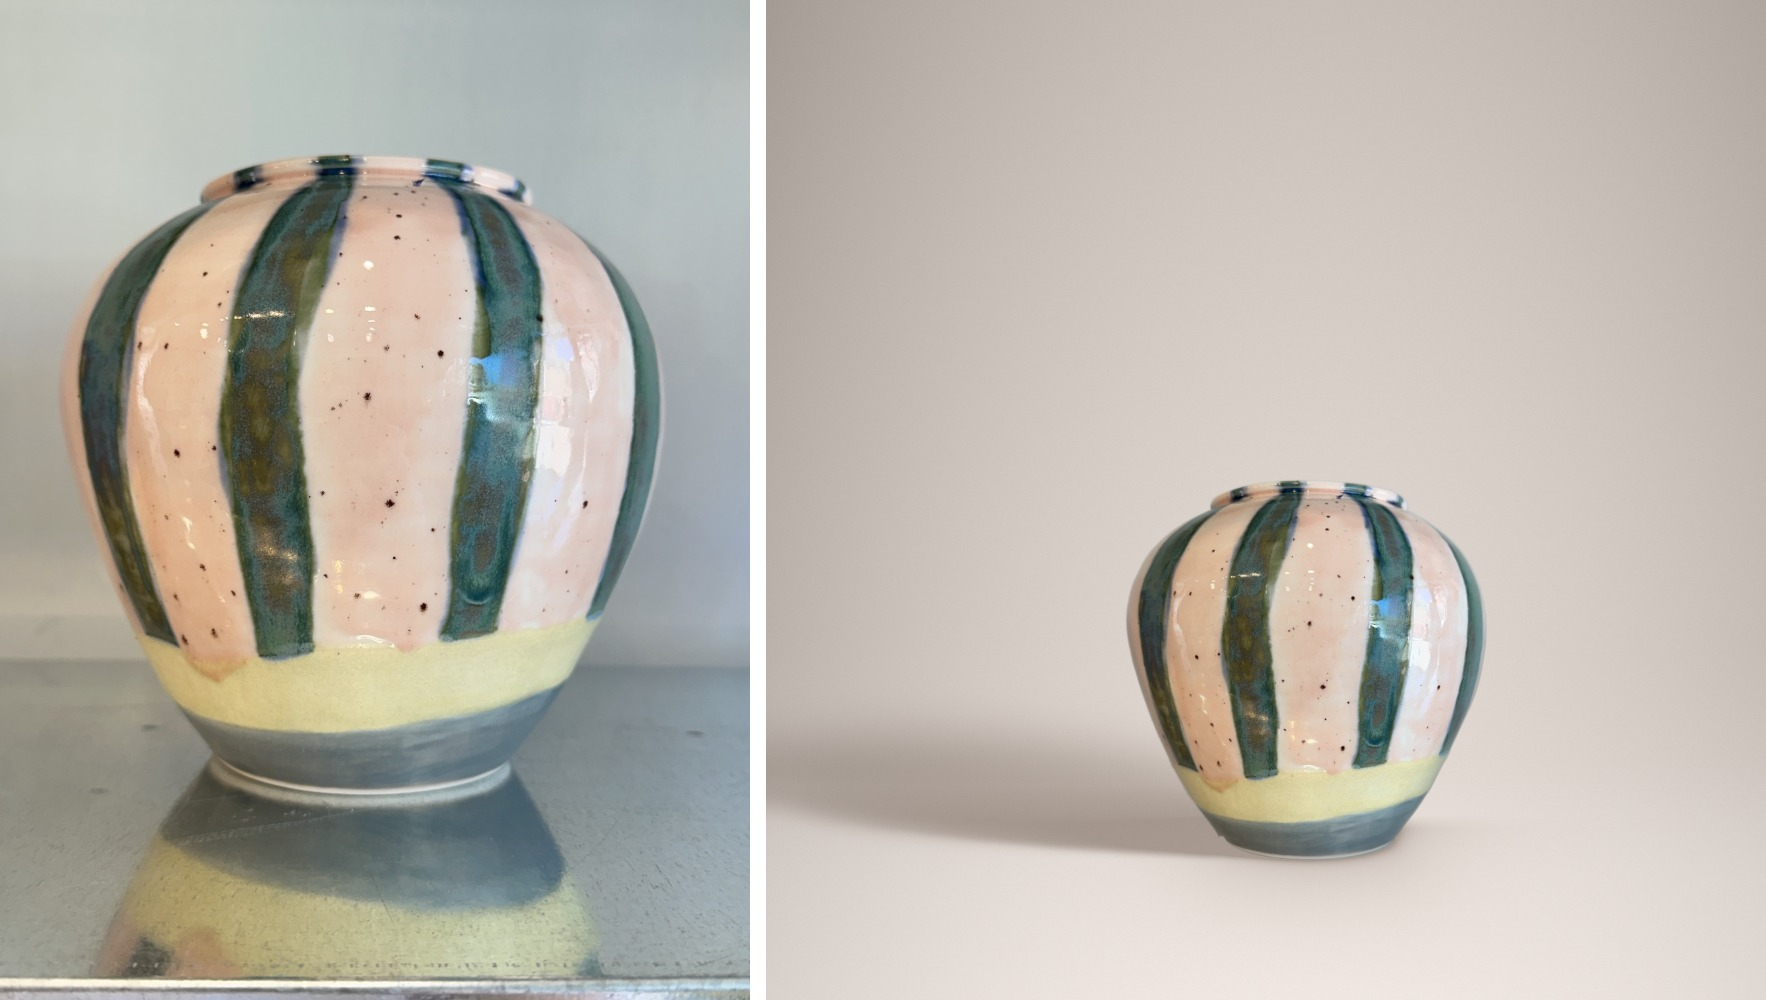
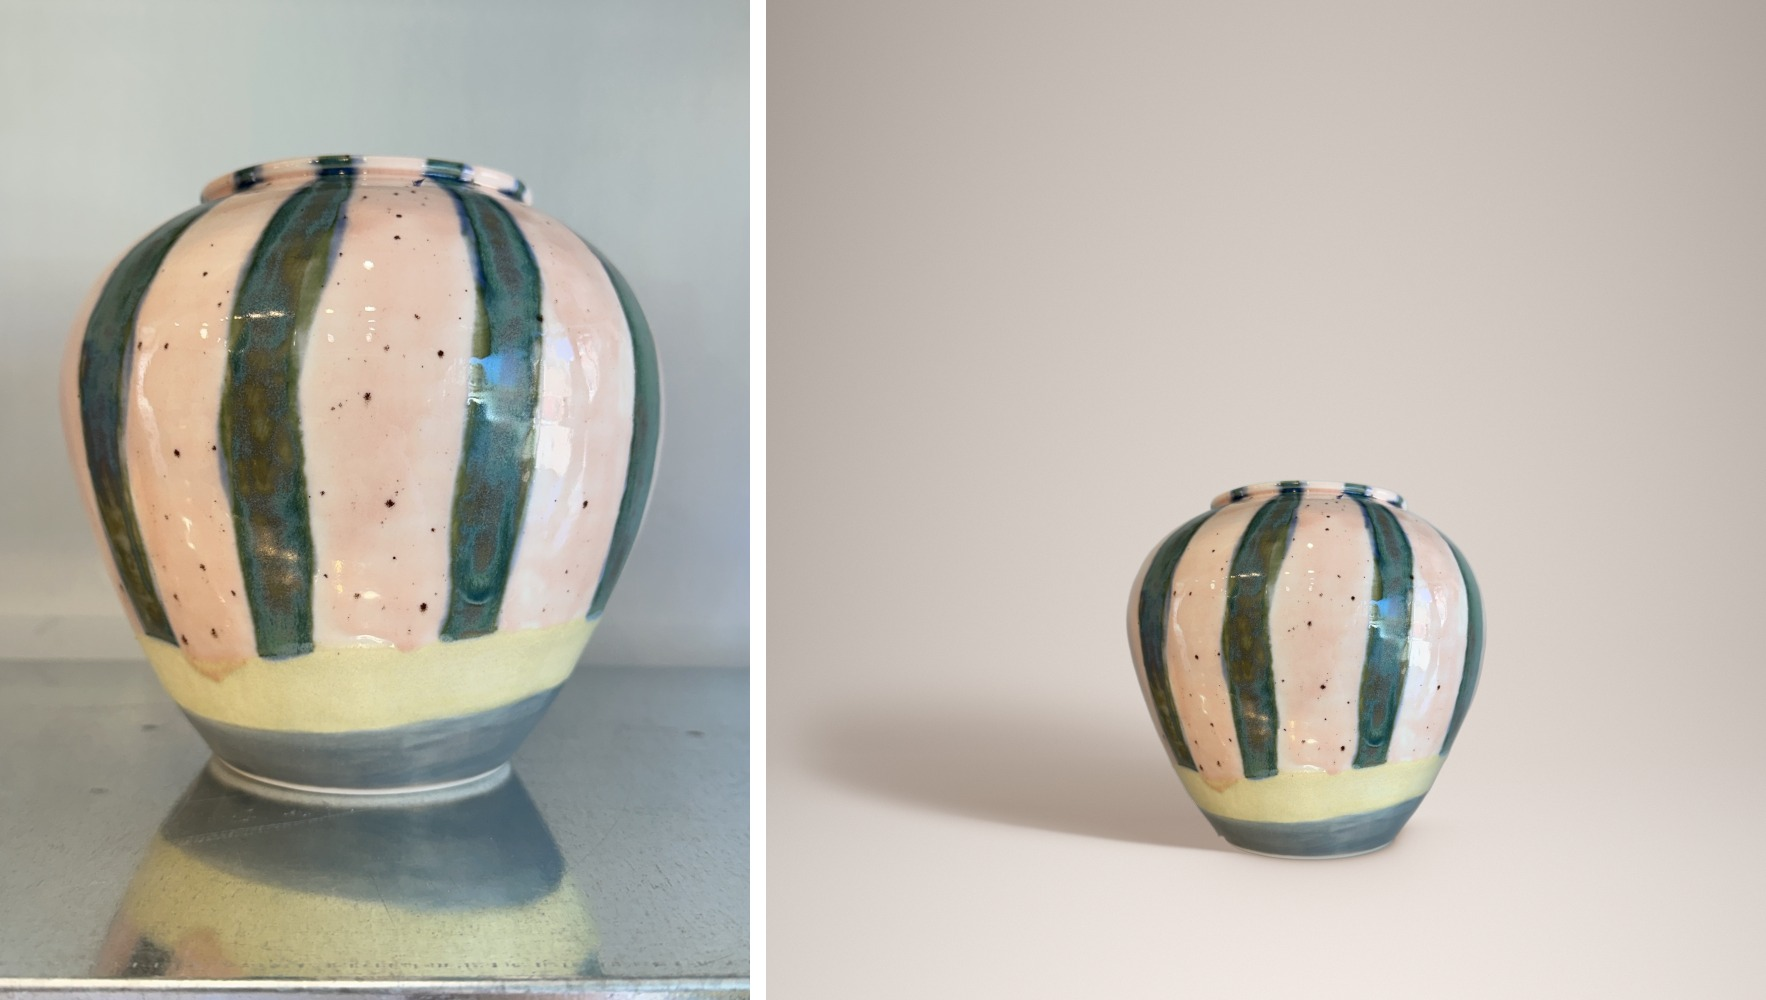
Sharper projected shadows tinted by the product; lilac planter set
- Cast shadow keeps a crisp outline near the foot and softens only with
  distance; ambient occlusion reduced so it no longer blurs the shape; a
  minimum depth keeps the shadow from collapsing to a thin line at low
  camera angles.
- Shadow color picks up the hue of the product's lower part (--shadow-color).
- studio_shot --fill-holes keeps drain holes as part of the product.
- Add lilac planter (side, mouth, bottom); regenerate all studio samples.
- CLAUDE.md: note the crease-cut pitfall on narrow-foot cups and the new
  options.

Claude-Session: https://claude.ai/code/session_01WGwx9JVhJ7CYZxXMbtASsV

Changed region(s): [[0.436, 0.744, 0.7163, 0.868]]

diff --git a/tools/catalog_shot.py b/tools/catalog_shot.py
@@ -78,6 +78,11 @@ def build_parser():
                    help="사선 그림자가 뒤(화면 위쪽)로 올라가는 정도(제품 높이 대비)")
     g.add_argument("--cast-blur", type=float, default=0.04,
                    help="사선 그림자 흐림(제품 높이 대비, 멀어질수록 최대 1.2배)")
+    g.add_argument("--cast-min-depth", type=float, default=0.16,
+                   help="사선 그림자의 최소 두께 비율(제품 폭 대비). 낮은 카메라 각도에서 그림자가 "
+                        "실처럼 얇아지는 것 방지")
+    g.add_argument("--shadow-color", type=float, default=0.3,
+                   help="그림자에 제품 색을 섞는 정도 0~1 (제품 색이 바닥에 은은하게 배어 보이게)")
     g.add_argument("--cast-fade", type=float, default=0.55,
                    help="그림자 끝으로 갈수록 옅어지는 정도 0~1")
     g.add_argument("--opacity", type=float, default=1.0, help="그림자 전체 투명도 배율")
@@ -136,6 +141,29 @@ def backdrop(w, h, seam, contact_y, light_x, P):
     return bgr
 
 
+# ------------------------------------------------------------------ 그림자 색
+
+def shadow_tint_for(img_t, alpha, base_tint, mix):
+    """그림자 색 배율(B,G,R). 기본 따뜻한 그늘에 제품 아랫부분의 색조를 mix 만큼 섞는다.
+
+    실제 촬영에서는 제품에서 반사된 빛이 그림자 안을 물들인다(보라 화분 → 살짝 보랏빛
+    그늘). 밝기는 유지하고 색조만 옮기도록 제품 평균색을 그 밝기로 나눠 쓴다.
+    """
+    base = np.asarray(base_tint, np.float32)
+    if mix <= 0:
+        return base
+    ys = np.nonzero(alpha > 0.5)[0]
+    y0 = int(ys.min() + 0.45 * (ys.max() - ys.min()))           # 아래쪽 55% (바닥에 가까운 면)
+    m = alpha[y0:] >= 1.0
+    if m.sum() < 100:
+        return base
+    c = np.median(img_t[y0:][m].astype(np.float32), 0)
+    hue = c / max(float(c.mean()), 1.0)                          # 평균 1 인 색조 벡터
+    hue = 1 + (hue - 1) * 0.6                                    # 과하지 않게 채도 낮춤
+    t = base * (1 - mix + mix * hue)
+    return np.clip(t, 0.2, 0.95)
+
+
 # ------------------------------------------------------------------ 그림자
 
 def shadow_map(alpha, light_x, P, seam=None):
@@ -167,7 +195,8 @@ def shadow_map(alpha, light_x, P, seam=None):
     dirx = -np.sign(light_x) if abs(light_x) > 0.08 else -1.0
     H = bot - studio.body_top(alpha)
     kx, ky = P.cast_length * dirx, P.cast_rise
-    pr = float(np.clip(b / max(a, 1), 0.08, 0.6))                  # 원근(바닥 타원 납작함)
+    # 원근(바닥 타원 납작함). 너무 납작하면 그림자가 실처럼 얇아져 제품 그림자로 안 읽히므로 하한을 둔다
+    pr = float(np.clip(b / max(a, 1), P.cast_min_depth, 0.6))
     proj = np.zeros((h, w), np.float32)
     top = int(bot - H)
     for yr in range(bot, top - 1, -max(int(H / 80), 1)):
@@ -181,7 +210,8 @@ def shadow_map(alpha, light_x, P, seam=None):
         cv2.ellipse(proj, (int(round(ccx)), int(round(ccy))),
                     (max(int(hw), 1), max(int(hw * pr), 1)), 0, 0, 360, 1.0, -1, cv2.LINE_AA)
     dist = np.clip((bot - yy) / (ky * H + 1), 0, 1)                 # 0: 굽 근처 → 1: 그림자 끝
-    sig = [max(H * P.cast_blur * f, 1) for f in (0.15, 0.5, 1.2)]
+    # 굽 근처는 윤곽이 또렷하게(반그림자 좁게), 멀어질수록 넓게 흐려지게
+    sig = [max(H * P.cast_blur * f, 1) for f in (0.06, 0.35, 1.0)]
     bl = [cv2.GaussianBlur(proj, (0, 0), sg) for sg in sig]
     k = dist * 2
     cast = np.where(k < 1, bl[0] * (1 - k) + bl[1] * k, bl[1] * (2 - k) + bl[2] * (k - 1))
@@ -294,7 +324,8 @@ def main():
 
     bg = backdrop(w, h, seam, bot, light_x, P)
     s = shadow_map(alpha, light_x, P, seam)[..., None]
-    tint = np.array([float(v) for v in P.shadow_tint.split(",")], np.float32)
+    tint = shadow_tint_for(img_t, alpha, [float(v) for v in P.shadow_tint.split(",")],
+                           P.shadow_color)
     bg = bg * (1 - s * (1 - tint))                                   # 곱하기 합성
     if P.reflect > 0:
         # 반광택 바닥에 아주 약하게, 짧게, 흐릿하게 비치도록

diff --git a/tools/studio_shot.py b/tools/studio_shot.py
@@ -42,14 +42,16 @@ def build_parser():
                    help="벽→바닥 전환 위치: 바닥 닿는 선보다 캔버스 높이의 몇 배 위")
     g.add_argument("--horizon-soft", type=float, default=0.26,
                    help="벽→바닥이 섞이는 폭(캔버스 높이 비율). 클수록 경계 없이 부드럽게")
+    g.add_argument("--fill-holes", action="store_true",
+                   help="제품 안쪽 구멍(화분 바닥 물구멍 등)을 제품으로 유지")
     g.add_argument("--relight-inputs",
                    help="이 폴더에 relight.py 입력(마스크·빈 배경·합성 PNG)을 함께 저장")
     g.add_argument("--shade", type=float, default=0.12,
                    help="제품에 입히는 방향성 음영(빛 반대쪽이 어두워지는 정도)")
     p.set_defaults(out_dir="samples/studio", light="right", reflect=0.0,
-                   shadow_tint="0.60,0.63,0.67", cast_length=1.3, cast_rise=0.2,
-                   cast_strength=1.0, cast_blur=0.06, cast_fade=0.35,
-                   contact_strength=0.75, ao_strength=0.35, wrap=0.3)
+                   shadow_tint="0.60,0.63,0.67", cast_length=1.15, cast_rise=0.28,
+                   cast_strength=1.0, cast_blur=0.07, cast_fade=0.4,
+                   contact_strength=0.75, ao_strength=0.2, ao_size=0.3, wrap=0.3)
     return p
 
 
@@ -91,6 +93,15 @@ def main():
     elif P.reflection == "crease":
         alpha = rb.remove_crease_reflection(img, alpha)
 
+    if P.fill_holes:   # 제품 안쪽에 뚫린 구멍(화분 물구멍 등)이 배경으로 빠지지 않게 메운다
+        solid = (alpha > 0.5).astype(np.uint8)
+        n, lab, st, _ = cv2.connectedComponentsWithStats(1 - solid)
+        hh, ww = solid.shape
+        for i in range(n):
+            x, y, bw, bh, _ = st[i]
+            if x > 0 and y > 0 and x + bw < ww and y + bh < hh:
+                alpha[cv2.dilate((lab == i).astype(np.uint8), np.ones((5, 5), np.uint8)) > 0] = 1.0
+
     # 제품만 잘라 캔버스 크기에 맞게 축소
     S = P.out_size
     ys, xs = np.nonzero(alpha > 0.5)
@@ -123,7 +134,8 @@ def main():
 
     # 경계가 넓게 섞이므로 그림자는 섞임이 시작되는 높이 아래 전체에 허용
     s = cs.shadow_map(a_t, light_x, P, seam - P.horizon_soft * S / 2)[..., None]
-    tint = np.array([float(v) for v in P.shadow_tint.split(",")], np.float32)
+    tint = cs.shadow_tint_for(img_t, a_t, [float(v) for v in P.shadow_tint.split(",")],
+                              P.shadow_color)
     bg = bg * (1 - s * (1 - tint))
     if P.reflect > 0:
         refl, ra = studio.reflection(img_t, a_t, P.reflect, length=0.18)

diff --git a/CLAUDE.md b/CLAUDE.md
@@ -35,8 +35,10 @@ python tools/studio_shot.py samples/cup_original.jpg        --model ensemble --r
 python tools/studio_shot.py samples/vase_side_original.jpg  --model birefnet-general --reflection crease
 python tools/studio_shot.py samples/wave_side_original.jpg  --model birefnet-general --reflection crease
 python tools/studio_shot.py samples/purple_cup_original.jpg --model birefnet-general --reflection crease
-# 나머지(planter, sand_cup, pot_bottom, pot_top, vase_top, vase_bottom, wave_top):
+# 나머지(planter, sand_cup, pot_top, vase_top, vase_bottom, wave_top, lilac_side, lilac_top):
 python tools/studio_shot.py samples/<이름>_original.jpg     --model birefnet-general
+# 바닥에 물구멍이 있는 사진(pot_bottom, lilac_bottom): 구멍이 배경으로 빠지지 않게
+python tools/studio_shot.py samples/<이름>_original.jpg     --model birefnet-general --fill-holes
 # 접시(plate_*, rect_*, blue_plate, white_plate, orange_*):
 python tools/replace_background.py <접시>.jpg <결과>.jpg --canvas 2273x1705 --model birefnet-general --reflection none --backdrop flat
 ```
@@ -62,6 +64,14 @@ python tools/replace_background.py <접시>.jpg <결과>.jpg --canvas 2273x1705 
 - 벽·바닥을 좁은 폭(4%)으로 섞고 어두운 띠를 넣으면 "뭉개진 경계"로 보인다 →
   `backdrop_studio(soft=0.26)` 처럼 넓게 섞고 띠를 없앤다.
 - 바닥 반사는 테이블 면 기준으로 뒤집어야 한다(옆면 윤곽 기준이면 몸통 옆에 줄무늬가 생김).
+
+- 그림자가 넓게 번지면 "제품에서 투영된 그림자 같지 않다"는 평가를 받는다 → 굽 근처는 윤곽을
+  또렷하게(블러 작게), 멀어질수록만 흐리게. AO 는 약하게(`ao_strength=0.2`). 낮은 카메라 각도에서
+  그림자가 실처럼 얇아지지 않게 `--cast-min-depth`(기본 0.16)로 두께 하한을 둔다.
+- 그림자 색에는 제품 아랫부분 색조를 은은하게 섞는다(`--shadow-color`, 기본 0.3).
+- `--reflection crease` 는 굽이 몸통보다 좁은 컵에서 아래 모서리를 계단처럼 잘라낼 수 있다
+  (lilac_side 에서 발생). birefnet 마스크가 이미 굽 끝에서 끝나면 `none` 을 쓴다.
+  새 사진은 먼저 마스크 윤곽을 원본 위에 겹쳐 보고 방식을 고른다.
 
 **제품 색**
 - 푸른 끼 제거를 제품 전체에 적용하면 고유색이 바랜다(모래색 컵이 회색이 됨) →
